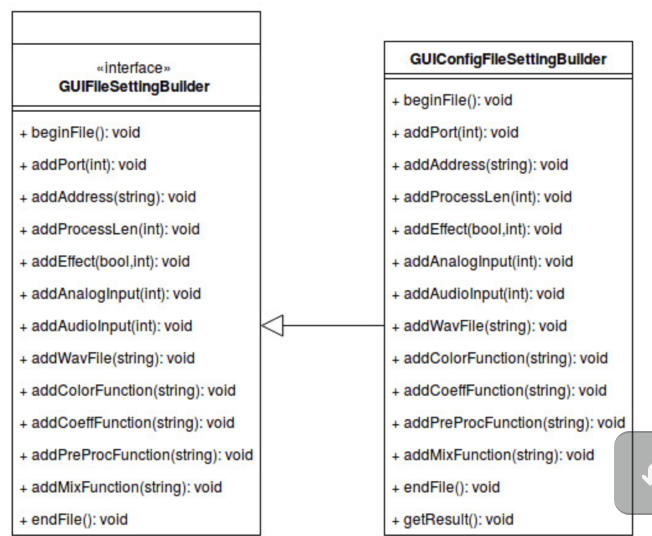
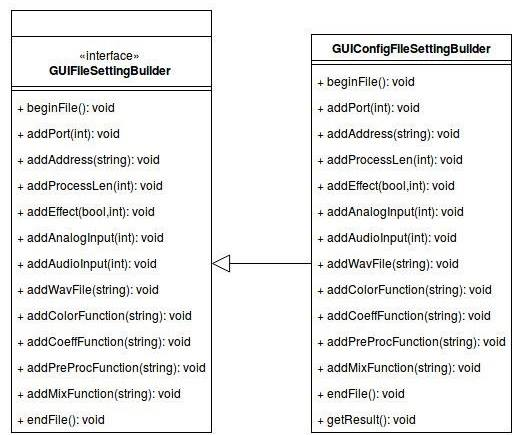
add doc in setting windows

Changed region(s): [[0.0, 0.0, 1.0, 1.0]]

diff --git a/GUI/src/settingWindow/fileSetting/GUIFileSettingBuilder.hpp b/GUI/src/settingWindow/fileSetting/GUIFileSettingBuilder.hpp
@@ -17,111 +17,112 @@ using namespace std;
 
 /**
  * \class GUIFileSettingBuilder
- * \brief Class used to
+ * \brief Class used as a builder for the exit file.
  *
- * ***EXPLICATIONS***
+ *
  */
 class GUIFileSettingBuilder {
 
 public:
   /**
    * \fn    virtual void beginFile() = 0
-   * \brief
+   * \brief Add the beginning of the file.
    */
   virtual void beginFile() = 0;
 
   /**
    * \fn    virtual void addPort(int port) = 0
-   * \brief
+   * \brief Add the port.
    *
-   * \param port
+   * \param port The port.
    */
   virtual void addPort(int port) = 0;
 
   /**
    * \fn    virtual void addAddress(string address) = 0
-   * \brief
+   * \brief Add the ip adress.
    *
-   * \param address
+   * \param address The ip adress in string format.
    */
   virtual void addAddress(string address) = 0;
 
   /**
    * \fn    virtual void addProcessLen(int length) = 0
-   * \brief
+   * \brief Add the length of the process length.
    *
-   * \param length
+   * \param length The length of the process' buffer.
    */
   virtual void addProcessLen(int length) = 0;
 
   /**
-   * \fn    virtual void addEffect(bool effect, int bufferLen) = 0
-   * \brief
+   * \fn    addEffect(bool effect, int bufferLen)
+   * \brief Enable effectes if the "effect" var is true and add the effect
+   *        process length to the configuration file.
    *
-   * \param effect
-   * \param bufferLen
+   * \param effect A boolean to tell to enable effects or not.
+   * \param bufferLen The length of the effect buffer.
    */
   virtual void addEffect(bool effect, int bufferLen) = 0;
 
   /**
-   * \fn    virtual void addAnalogInput(int nb) = 0
-   * \brief
+   * \fn    addAnalogInput(int nb)
+   * \brief Add the number of analog inputs to the configuration file.
    *
-   * \param nb
+   * \param nb Number of analog input.
    */
   virtual void addAnalogInput(int nb) = 0;
 
   /**
-   * \fn    virtual void addAudioInput(int nb) = 0
-   * \brief
+   * \fn    addAudioInput(int nb)
+   * \brief Add the number of audio inputs to the configuration file.
    *
-   * \param nb
+   * \param nb Number of audio input.
    */
   virtual void addAudioInput(int nb) = 0;
 
   /**
-   * \fn    virtual void addWavFile(string path) = 0
-   * \brief
+   * \fn    addWavFile(string path)
+   * \brief add a wav file to the config file.
    *
-   * \param path
+   * \param path The absolute path to the wav file on the computer.
    */
   virtual void addWavFile(string path) = 0;
 
   /**
-   * \fn    virtual void addColorFunction(string functionName) = 0
-   * \brief
+   * \fn    addColorFunction(string functionName)
+   * \brief Add the name of the color function selected to the config file.
    *
-   * \param functionName
+   * \param functionName The name of the function.
    */
   virtual void addColorFunction(string functionName) = 0;
 
   /**
-   * \fn    virtual void addCoeffFunction(string functionName) = 0
-   * \brief
+   * \fn    addCoeffFunction(string functionName)
+   * \brief Add the name of the correlation function selected.
    *
-   * \param functionName
+   * \param functionName The name of the function.
    */
   virtual void addCoeffFunction(string functionName) = 0;
 
   /**
-   * \fn    virtual void addPreProcFunction(string functionName) = 0
-   * \brief
+   * \fn    addPreProcFunction(string functionName)
+   * \brief Add the name of the preprocessing function selected.
    *
-   * \param functionName
+   * \param functionName The name of the function.
    */
   virtual void addPreProcFunction(string functionName) = 0;
 
   /**
-   * \fn    virtual void addMixFunction(string functionName) = 0
-   * \brief
+   * \fn    addCoeffFunction(string functionName)
+   * \brief Add the name of the mix function selected.
    *
-   * \param functionName
+   * \param functionName The name of the function.
    */
   virtual void addMixFunction(string functionName) = 0;
 
   /**
-   * \fn    virtual void endFile() = 0
-   * \brief
+   * \fn    endFile()
+   * \brief Add the end of file.
    */
   virtual void endFile() = 0;
 };

diff --git a/GUI/src/settingWindow/layout/GUIWavFileSettingLayout.hpp b/GUI/src/settingWindow/layout/GUIWavFileSettingLayout.hpp
@@ -28,9 +28,8 @@ using namespace std;
 
 /**
  * \class GUIWavFileSettingLayout
- * \brief Class used to ***EXPLICATION***
+ * \brief Class used to create the layout for the wav file
  *
- * ***EXPLICATIONS***
  */
 class GUIWavFileSettingLayout : public QGridLayout, public GUISettingLayout {
 
@@ -49,7 +48,9 @@ public:
 
   /**
    * \fn    const QStringList getSettings()
-   * \brief
+   * \brief get all the settings.
+   *
+   *  Get all the wav file absolut path and return it as a QStringList.
    */
   const QStringList getSettings();
 
@@ -64,19 +65,23 @@ public:
 private slots:
  /**
   * \fn    void loadWavFile()
-  * \brief
+  * \brief load a wav file.
+  *
+  * This function is call when the loadButton is pressed, the function open
+  * a fileDialog and store the absolut path and print just the name of
+  * the file.
   */
   void loadWavFile();
 
   /**
    * \fn    removeWavFile()
-   * \brief
+   * \brief remove a file from the list.
    */
   void removeWavFile();
 
   /**
    * \fn    void clearWavFile()
-   * \brief
+   * \brief remove all the file from the list.
    */
   void clearWavFile();
 

diff --git a/GUI/src/settingWindow/layout/GUIProcessSettingLayout.hpp b/GUI/src/settingWindow/layout/GUIProcessSettingLayout.hpp
@@ -21,6 +21,11 @@
  */
 using namespace std;
 
+/**
+ * \class GUISettingLayoutFactory
+ * \brief Class used as an layout to choose the process functions.
+ *
+ */
 class GUIProcessSettingLayout : public QFormLayout, public GUISettingLayout {
 
   /**
@@ -38,15 +43,17 @@ public:
 
   /**
    * \fn    void addSetting(string name)
-   * \brief
+   * \brief Add a part for the "name" process function.
    *
-   * \param name
+   * \param name The name of the process function.
    */
   void addSetting(string name);
 
   /**
    * \fn    const QStringList getSettings()
-   * \brief
+   * \brief Return all the process function as a QStringList.
+   *
+   * \return Return the name of the process function.
    */
   const QStringList getSettings();
 
@@ -66,7 +73,7 @@ private:
 
   /**
    * \fn    QStringList getFilename(string nameFile)
-   * \brief
+   * \brief Get all the function in the directory with the name : nameFile.
    *
    * \param nameFile
    */

diff --git a/GUI/src/settingWindow/layout/GUISettingLayoutFactory.hpp b/GUI/src/settingWindow/layout/GUISettingLayoutFactory.hpp
@@ -19,28 +19,27 @@ using namespace std;
 
 /**
  * \class GUISettingLayoutFactory
- * \brief Class used to ***EXPLICATION***
+ * \brief Class used as a factory for the layout.
  *
- * ***EXPLICATIONS***
  */
 class GUISettingLayoutFactory {
 public:
 
   /**
    * \fn    static GUIInputSettingLayout* createGUIInputSettingLayout()
-   * \brief
+   * \brief create a input layout.
    */
   static GUIInputSettingLayout* createGUIInputSettingLayout();
 
   /**
    * \fn    static GUIProcessSettingLayout* createGUIProcessSettingLayout()
-   * \brief
+   * \brief create a process layout.
    */
   static GUIProcessSettingLayout* createGUIProcessSettingLayout();
 
   /**
    * \fn    static GUIWavFileSettingLayout* createGUIWavFileSettingLayout()
-   * \brief
+   * \brief create a wav file layout.
    */
   static GUIWavFileSettingLayout* createGUIWavFileSettingLayout();
 };

diff --git a/GUI/src/settingWindow/layout/GUIInputSettingLayout.hpp b/GUI/src/settingWindow/layout/GUIInputSettingLayout.hpp
@@ -42,17 +42,17 @@ public:
 
   /**
    * \fn    void addSetting(string name, int min, int max)
-   * \brief
+   * \brief Add an input part with a name, a minimum and maximum.
    *
-   * \param name
-   * \param min
-   * \param max
+   * \param name The name of the part.
+   * \param min The minimum of the part.
+   * \param max The maximum of the part.
    */
   void addSetting(string name, int min, int max);
 
   /**
    * \fn    const QStringList getSettings()
-   * \brief
+   * \brief Return the value of each part of the layout.
    */
   const QStringList getSettings();
 

diff --git a/GUI/src/settingWindow/GUISettingWindow.hpp b/GUI/src/settingWindow/GUISettingWindow.hpp
@@ -67,23 +67,23 @@ private slots:
 
  /**
   * \fn    void checkInput()
-  * \brief
+  * \brief check the number of input.
   */
   void checkInput();
 
 private:
 
   /**
-   * \fn    void checkInput()
-   * \brief
+   * \fn    void buildConfigFile()
+   * \brief builde the config file with all the settings.
    */
   void buildConfigFile();
 
   /**
-   * \fn    void checkInput()
-   * \brief
+   * \fn    void getNumInput()
+   * \brief compute the number of input.
    *
-   * \return
+   * \return return the number of input.
    */
   int getNumInput();
 

diff --git a/GUI/src/settingWindow/layout/GUISettingLayout.hpp b/GUI/src/settingWindow/layout/GUISettingLayout.hpp
@@ -15,15 +15,14 @@ using namespace std;
 
 /**
  * \class GUISettingLayoutFactory
- * \brief Class used to ***EXPLICATION***
+ * \brief Class used as an interface for all the layouts.
  *
- * ***EXPLICATIONS***
  */
 class GUISettingLayout {
 public:
   /**
    * \fn    virtual const QStringList getSettings() = 0
-   * \brief
+   * \brief get the settings from a layout.
    */
   virtual const QStringList getSettings() = 0;
 };

diff --git a/doc/memoire/Ajoutfct.tex b/doc/memoire/Ajoutfct.tex
@@ -101,7 +101,7 @@ l'interface de configuration se nomme \verb!settingWindow!.
 
 \begin{figure}[h]
  \centering
- \includegraphics[scale=0.5]{umlSettingWindow.png}
+ \includegraphics[scale=0.3]{umlSettingWindow.png}
  \verb!\caption{Schéma global du dispositif de VisualImpro}!
  \label{schéma global}
 \end{figure}
